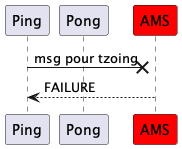
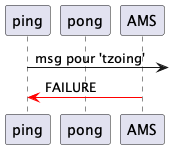
add plantuml diagrams

diff --git a/ticTac/AgentPosteur.java b/ticTac/AgentPosteur.java
@@ -26,11 +26,12 @@ public class AgentPosteur extends Agent {
                 var msg = new ACLMessage(ACLMessage.INFORM);
                 //ajout d'un identifiant au msg
                 msg.setConversationId("CLOCK");
-                msg.addReceiver(new AID("agentDemineur", AID.ISLOCALNAME));
+                msg.addReceiver("agentDemineur");
                 msg.setContent("tictac");
                 myAgent.send(msg);
             }
         };
+
         // ajout du  comportement cyclique  dans 1 secondes
         addBehaviour(new WakerBehaviour(this, 1000) {
             protected void onWake() {
@@ -43,7 +44,7 @@ public class AgentPosteur extends Agent {
             protected void onWake() {
                 var msg = new ACLMessage(ACLMessage.INFORM);
                 msg.setConversationId("BOOM");
-                msg.addReceiver(new AID("agentDemineur", AID.ISLOCALNAME));
+                msg.addReceiver("agentDemineur");
                 msg.setContent("b o o m ! ! !");
                 myAgent.removeBehaviour(compTicTac);
                 myAgent.send(msg);

diff --git a/ticTac/readme.md b/ticTac/readme.md
@@ -13,3 +13,23 @@
 - [LaunchAgents](https://https://github.com/EmmanuelADAM/jade/blob/master/protocoles/voteBorda/launch/LaunchAgents.java) : **
   classe principale**, lançant Jade et créant 2 agents
 
+<!--
+```
+@startuml tictac
+participant posteur
+participant demineur
+par envoyer tictac
+  loop chaque seconde
+  posteur -> demineur  : TicTac
+  end
+end
+
+par envoyer boom 10 sec plus tard
+    posteur -> demineur: boom
+    posteur -> posteur : retirer 'envoyer tictac'
+end
+
+@enduml```
+-->
+
+![](tictac.png)

diff --git a/pingPlouf/readme.md b/pingPlouf/readme.md
@@ -15,13 +15,14 @@ Supports pour le cours de programmation orientée agent en Jade
 <!--
 ```
 @startuml pingplouf
-participant Ping
-participant Pong
-participant AMS #red
+participant ping
+participant pong
+participant AMS 
 
-Ping -x AMS : msg pour tzoing 
-AMS -> Ping: FAILURE
-@enduml```
+ping ->] : msg pour 'tzoing'
+AMS -[#red]> ping :  FAILURE 
+@enduml
+```
 -->
 
 ![](pingplouf.png)
